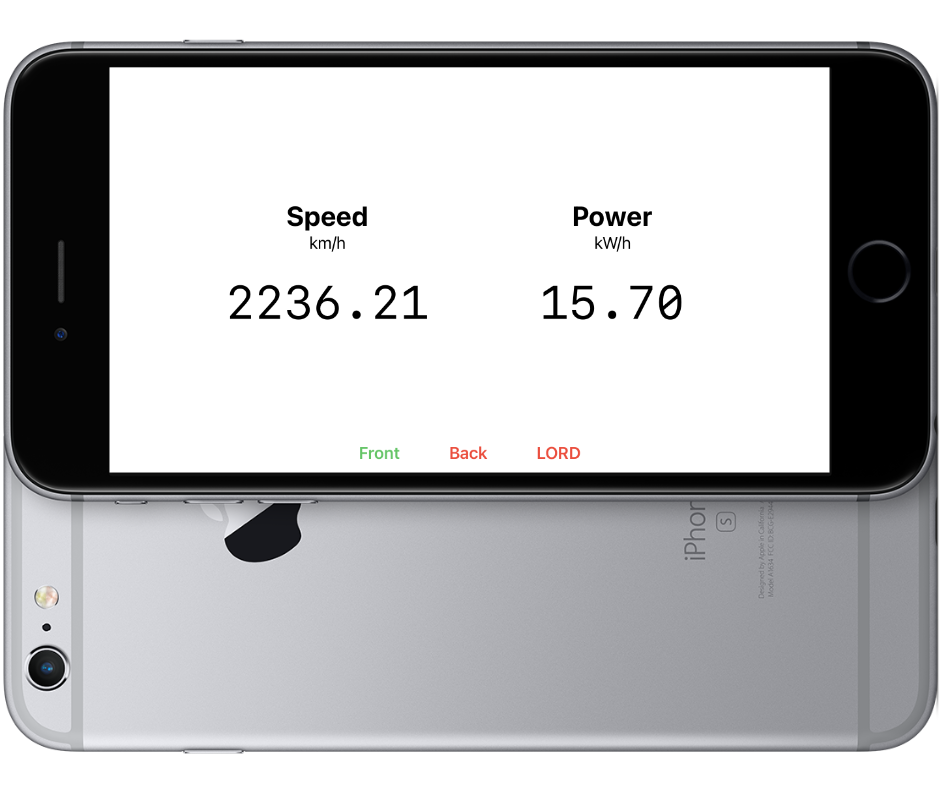
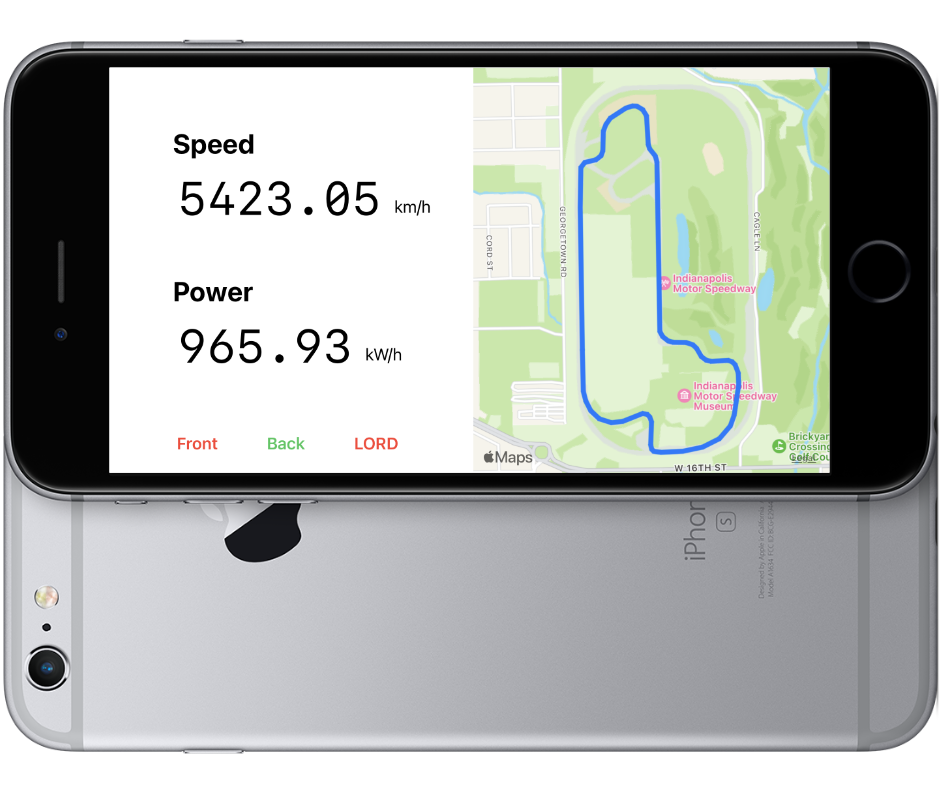
Remove unused file

diff --git a/README.md b/README.md
@@ -2,7 +2,7 @@
 
 _Jason Klein '26, Ari Kapelyan '25, Kalehiwot Dessalgne '25, Drew Wilenzick '26_
 
-A quick solution to a driver dashboard for competition in less than two weeks (!) The core components of the dashboard are (1) live statistics from the DAQ that allow it to communicate current speed and power consumption to the driver and (2) the ability to archive all sorts of data like GPS for later analysis.
+A quick solution to a driver dashboard for competition in less than two weeks (!) The core components of the dashboard are (1) live statistics from the DAQ that allow it to communicate current speed and power consumption to the driver and (2) the ability to archive all sorts of data like GPS for later analysis. We also implemented location tracking and a labelled map of the track.
 
 ![Render of iPhone app](./media/render.png)
 
